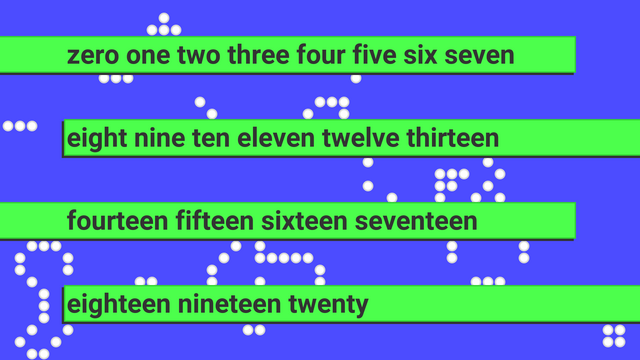
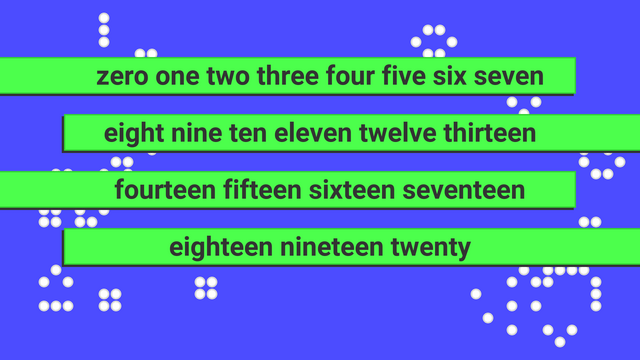
Decorate the release v1.2.1

diff --git a/README.md b/README.md
@@ -19,6 +19,16 @@ _**Disclaimer:** this demo was written directly on an Android smartphone with th
     - ignore outside points;
     - support for a start delay for populating;
   - automatic horizontal and vertical centering;
+  - quit at a finish of the animation:
+    - for the duration of the animation is taken the minimum duration of the end YouTube screen;
+  - support for the several drawing modes:
+    - pale mode;
+    - transparent mode;
+    - blur mode:
+      - box blur;
+      - fast Gaussian blur;
+      - Gaussian blur;
+      - glow;
 - drawing of the logo (optionally):
   - automatic horizontal and vertical centering;
   - fade in and out:
@@ -26,6 +36,7 @@ _**Disclaimer:** this demo was written directly on an Android smartphone with th
     - quit at the finish of the fading out;
 - drawing of the text rectangles (optionally):
   - automatic horizontal and vertical centering;
+  - align text in the rectangles to the center;
   - automatic text splitting into lines:
     - each line contains as many words as possible;
     - select the largest possible font size to fit the text on the screen;

diff --git a/CHANGE_LOG.md b/CHANGE_LOG.md
@@ -1,5 +1,30 @@
 # Change Log
 
+## [v1.2.1](https://github.com/thewizardplusplus/wizard-intro/tree/v1.2.1) (2024-07-24)
+
+Improve drawing of the background and the text rectangles.
+
+- drawing of the background:
+  - quit at a finish of the animation:
+    - for the duration of the animation is taken the minimum duration of the end YouTube screen;
+  - support for the several drawing modes:
+    - pale mode;
+    - transparent mode;
+    - blur mode:
+      - box blur;
+      - fast Gaussian blur;
+      - Gaussian blur;
+      - glow;
+  - tune up the random generator;
+- drawing of the text rectangles:
+  - automatic horizontal and vertical centering:
+    - improve vertical distribution of the rectangles;
+    - restrict the maximal rectangle margin;
+  - align text in the rectangles to the center;
+  - fix the bugs:
+    - remove a trailing space from text lines;
+    - fix the bug with a missing side padding.
+
 ## [v1.2.0](https://github.com/thewizardplusplus/wizard-intro/tree/v1.2.0) (2024-07-22)
 
 Implement the drawing of the text rectangles.
